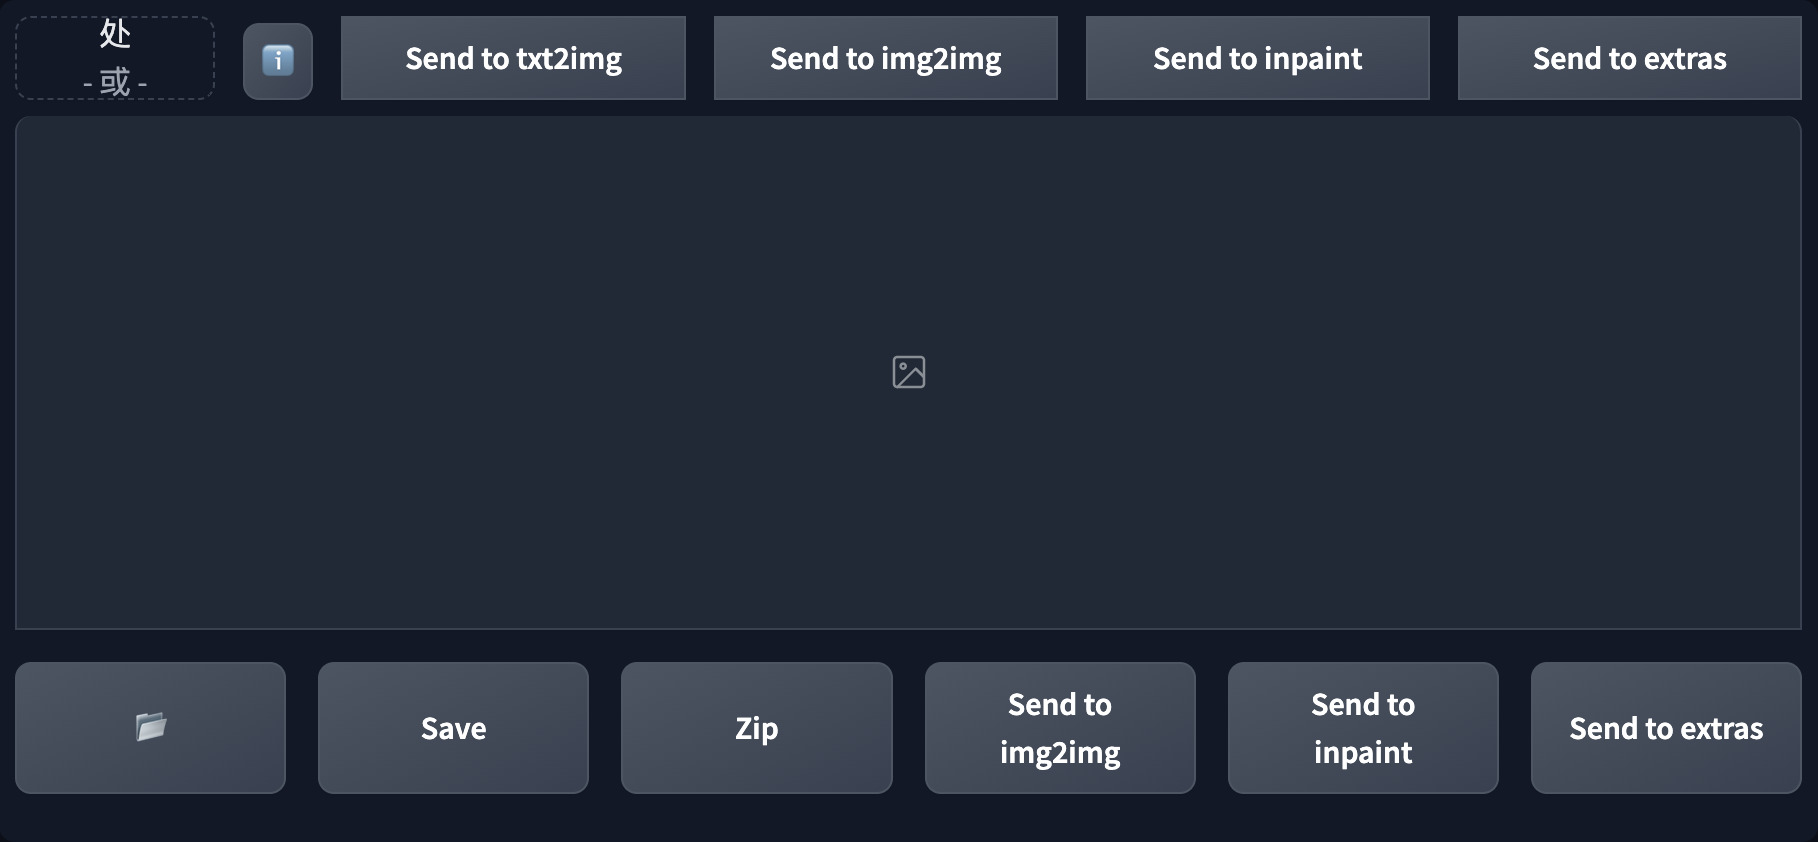
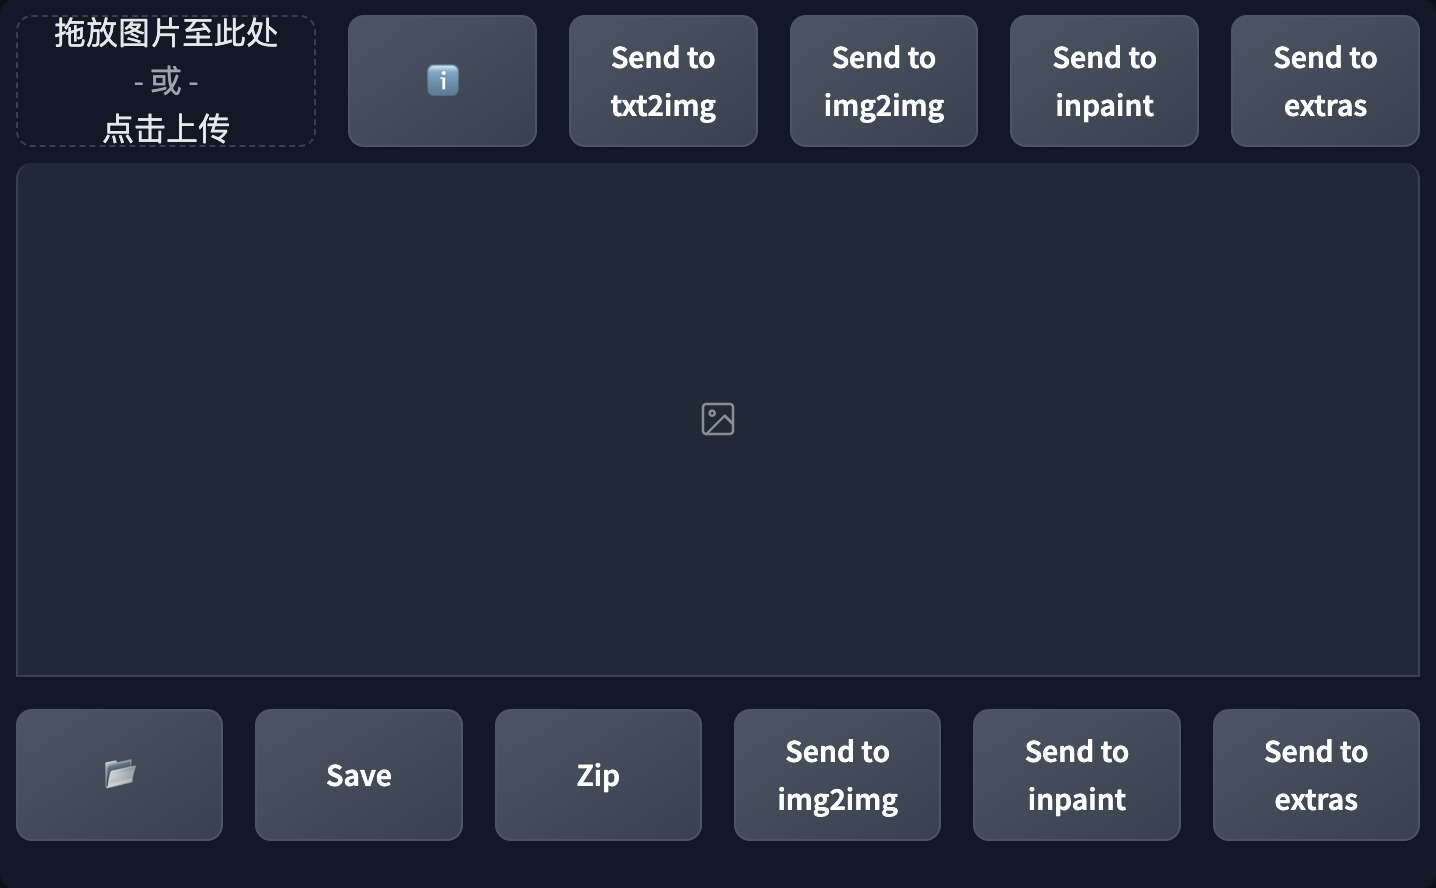
fix layout

diff --git a/scripts/quick_png_info.py b/scripts/quick_png_info.py
@@ -3,107 +3,106 @@ import modules.extras
 import modules.generation_parameters_copypaste as parameters_copypaste
 
 from modules.shared import opts
-from modules.ui_components import ToolButton
 from modules.call_queue import wrap_gradio_call
 from modules import scripts, script_callbacks, shared
 
 class QuickPNGInfo(scripts.Script):
-    def title(self):
-        return 'Quick PNG Info'
+	def title(self):
+		return 'Quick PNG Info'
 
-    def describe(self):
-        return "Embed PNG Info into the txt2imga and img2img tabs, you can use it without leaving the tab."
+	def describe(self):
+		return "Embed PNG Info into the txt2imga and img2img tabs, you can use it without leaving the tab."
 
-    def show(self, is_img2img):
-        return scripts.AlwaysVisible
+	def show(self, is_img2img):
+		return scripts.AlwaysVisible
 
-    def before_component(self, component, **kwargs):
-        if kwargs.get("elem_id") == f"txt2img_gallery":
-            tab = "txt2img"
-            with gr.Row(variant='compact').style(equal_height=True):
-                with gr.Column(min_width=100):
-                    image = gr.Image(elem_id=f"{tab}_pnginfo_image", show_label=False, label="PNG Info Source", source="upload", interactive=True, type="pil").style(height=42,width=100)
-                with gr.Column(scale=10):
-                    with gr.Row(variant='compact'):
-                        show_info_text = ToolButton(value='\u2139\uFE0F',visible=not opts.data.get("qpi_always_show_text", False))
-                        hide_info_text = ToolButton(value='\u2139\uFE0F',visible=opts.data.get("qpi_always_show_text", False))
-                        buttons = parameters_copypaste.create_buttons(["txt2img", "img2img", "inpaint", "extras"])
-            with gr.Row(variant='compact'):       
-                with gr.Row(elem_id=f"{tab}_parameters_viewer",visible=opts.data.get("qpi_always_show_text", False)) as parameters_viewer:
-                    html = gr.HTML(visible=False)
-                    generation_info = gr.Textbox(visible=False, elem_id=f"{tab}_pnginfo_generation_info")
-                    html2 = gr.HTML()
-                    for tabname, button in buttons.items():
-                            parameters_copypaste.register_paste_params_button(parameters_copypaste.ParamBinding(
-                            paste_button=button, tabname=tabname, source_text_component=generation_info, source_image_component=image,
-                        ))
-            with gr.Row():
-                htmlt = gr.HTML(value="<span style='display: block; height: 8px;'></span>")     
-            image.change(
-                fn=wrap_gradio_call(modules.extras.run_pnginfo),
-                inputs=[image],
-                outputs=[html, generation_info, html2],
-            )
-            
-            show_info_text.click(
-                fn=lambda: ({"visible": True, "__type__": "update"}, {"visible": False, "__type__": "update"}, {"visible": True, "__type__": "update"}),
-                inputs=[],
-                outputs=[parameters_viewer, show_info_text, hide_info_text],
-                show_progress = False,
-            )
-            
-            hide_info_text.click(
-                fn=lambda: ({"visible": False, "__type__": "update"}, {"visible": False, "__type__": "update"}, {"visible": True, "__type__": "update"}),
-                inputs=[],
-                outputs=[parameters_viewer, hide_info_text, show_info_text],
-                show_progress = False,
-            )
+	def before_component(self, component, **kwargs):
+		if kwargs.get("elem_id") == f"txt2img_gallery":
+			tab = "txt2img"
+			with gr.Row():
+				with gr.Column(scale=2,min_width=150):
+					image = gr.Image(elem_id=f"{tab}_pnginfo_image", show_label=False, label="PNG Info Source", source="upload", interactive=True, type="pil").style(height=66)
+				with gr.Column(scale=10):
+					with gr.Row(elem_classes="image-buttons"):
+						show_info_text = gr.Button(value='\u2139\uFE0F',visible=not opts.data.get("qpi_always_show_text", False))
+						hide_info_text = gr.Button(value='\u2139\uFE0F',visible=opts.data.get("qpi_always_show_text", False))
+						buttons = parameters_copypaste.create_buttons(["txt2img", "img2img", "inpaint", "extras"])
+			with gr.Row(variant='compact'):	   
+				with gr.Row(elem_id=f"{tab}_parameters_viewer",visible=opts.data.get("qpi_always_show_text", False)) as parameters_viewer:
+					html = gr.HTML(visible=False)
+					generation_info = gr.Textbox(visible=False, elem_id=f"{tab}_pnginfo_generation_info")
+					html2 = gr.HTML()
+			for tabname, button in buttons.items():
+				parameters_copypaste.register_paste_params_button(parameters_copypaste.ParamBinding(
+				paste_button=button, tabname=tabname, source_text_component=generation_info, source_image_component=image,
+			))
+			with gr.Row():
+				htmlt = gr.HTML(value="<span style='display: block; height: 8px;'></span>")
+			image.change(
+				fn=wrap_gradio_call(modules.extras.run_pnginfo),
+				inputs=[image],
+				outputs=[html, generation_info, html2],
+			)
+			
+			show_info_text.click(
+				fn=lambda: ({"visible": True, "__type__": "update"}, {"visible": False, "__type__": "update"}, {"visible": True, "__type__": "update"}),
+				inputs=[],
+				outputs=[parameters_viewer, show_info_text, hide_info_text],
+				show_progress = False,
+			)
+			
+			hide_info_text.click(
+				fn=lambda: ({"visible": False, "__type__": "update"}, {"visible": False, "__type__": "update"}, {"visible": True, "__type__": "update"}),
+				inputs=[],
+				outputs=[parameters_viewer, hide_info_text, show_info_text],
+				show_progress = False,
+			)
 
-        if kwargs.get("elem_id") == f"img2img_gallery":
-            tab = "img2img"
-            with gr.Row(variant='compact').style(equal_height=True):
-                with gr.Column(min_width=100):
-                    image = gr.Image(elem_id=f"{tab}_pnginfo_image", show_label=False, label="PNG Info Source", source="upload", interactive=True, type="pil").style(height=42,width=100)
-                with gr.Column(scale=10):
-                    with gr.Row(variant='compact'):
-                        show_info_text = ToolButton(value='\u2139\uFE0F',visible=not opts.data.get("qpi_always_show_text", False))
-                        hide_info_text = ToolButton(value='\u2139\uFE0F',visible=opts.data.get("qpi_always_show_text", False))
-                        buttons = parameters_copypaste.create_buttons(["txt2img", "img2img", "inpaint", "extras"])
-            with gr.Row(variant='compact'):       
-                with gr.Row(elem_id=f"{tab}_parameters_viewer",visible=opts.data.get("qpi_always_show_text", False)) as parameters_viewer:
-                    html = gr.HTML(visible=False)
-                    generation_info = gr.Textbox(visible=False, elem_id=f"{tab}_pnginfo_generation_info")
-                    html2 = gr.HTML()
-                    for tabname, button in buttons.items():
-                            parameters_copypaste.register_paste_params_button(parameters_copypaste.ParamBinding(
-                            paste_button=button, tabname=tabname, source_text_component=generation_info, source_image_component=image,
-                        ))
-            with gr.Row():
-                htmlt = gr.HTML(value="<span style='display: block; height: 8px;'></span>")     
-            image.change(
-                fn=wrap_gradio_call(modules.extras.run_pnginfo),
-                inputs=[image],
-                outputs=[html, generation_info, html2],
-            )
-            
-            show_info_text.click(
-                fn=lambda: ({"visible": True, "__type__": "update"}, {"visible": False, "__type__": "update"}, {"visible": True, "__type__": "update"}),
-                inputs=[],
-                outputs=[parameters_viewer, show_info_text, hide_info_text],
-                show_progress = False,
-            )
-            
-            hide_info_text.click(
-                fn=lambda: ({"visible": False, "__type__": "update"}, {"visible": False, "__type__": "update"}, {"visible": True, "__type__": "update"}),
-                inputs=[],
-                outputs=[parameters_viewer, hide_info_text, show_info_text],
-                show_progress = False,
-            )
+		if kwargs.get("elem_id") == f"img2img_gallery":
+			tab = "img2img"
+			with gr.Row():
+				with gr.Column(scale=2,min_width=150):
+					image = gr.Image(elem_id=f"{tab}_pnginfo_image", show_label=False, label="PNG Info Source", source="upload", interactive=True, type="pil").style(height=66)
+				with gr.Column(scale=10):
+					with gr.Row(elem_classes="image-buttons"):
+						show_info_text = gr.Button(value='\u2139\uFE0F',visible=not opts.data.get("qpi_always_show_text", False))
+						hide_info_text = gr.Button(value='\u2139\uFE0F',visible=opts.data.get("qpi_always_show_text", False))
+						buttons = parameters_copypaste.create_buttons(["txt2img", "img2img", "inpaint", "extras"])
+			with gr.Row(variant='compact'):
+				with gr.Row(elem_id=f"{tab}_parameters_viewer",visible=opts.data.get("qpi_always_show_text", False)) as parameters_viewer:
+					html = gr.HTML(visible=False)
+					generation_info = gr.Textbox(visible=False, elem_id=f"{tab}_pnginfo_generation_info")
+					html2 = gr.HTML()
+			for tabname, button in buttons.items():
+				parameters_copypaste.register_paste_params_button(parameters_copypaste.ParamBinding(
+				paste_button=button, tabname=tabname, source_text_component=generation_info, source_image_component=image,
+			))
+			with gr.Row():
+				htmlt = gr.HTML(value="<span style='display: block; height: 8px;'></span>")
+			image.change(
+				fn=wrap_gradio_call(modules.extras.run_pnginfo),
+				inputs=[image],
+				outputs=[html, generation_info, html2],
+			)
+			
+			show_info_text.click(
+				fn=lambda: ({"visible": True, "__type__": "update"}, {"visible": False, "__type__": "update"}, {"visible": True, "__type__": "update"}),
+				inputs=[],
+				outputs=[parameters_viewer, show_info_text, hide_info_text],
+				show_progress = False,
+			)
+			
+			hide_info_text.click(
+				fn=lambda: ({"visible": False, "__type__": "update"}, {"visible": False, "__type__": "update"}, {"visible": True, "__type__": "update"}),
+				inputs=[],
+				outputs=[parameters_viewer, hide_info_text, show_info_text],
+				show_progress = False,
+			)
 
 def create_settings_items():
-    section = ('quick_png_info', 'Quick PNG Info')
-    opts.add_option("qpi_always_show_text", shared.OptionInfo(
-        False, "Display generation info text by default. (Requires restart)", section=section
-    ))
+	section = ('quick_png_info', 'Quick PNG Info')
+	opts.add_option("qpi_always_show_text", shared.OptionInfo(
+		False, "Display generation info text by default. (Requires restart)", section=section
+	))
 
 scripts.script_callbacks.on_ui_settings(create_settings_items)
